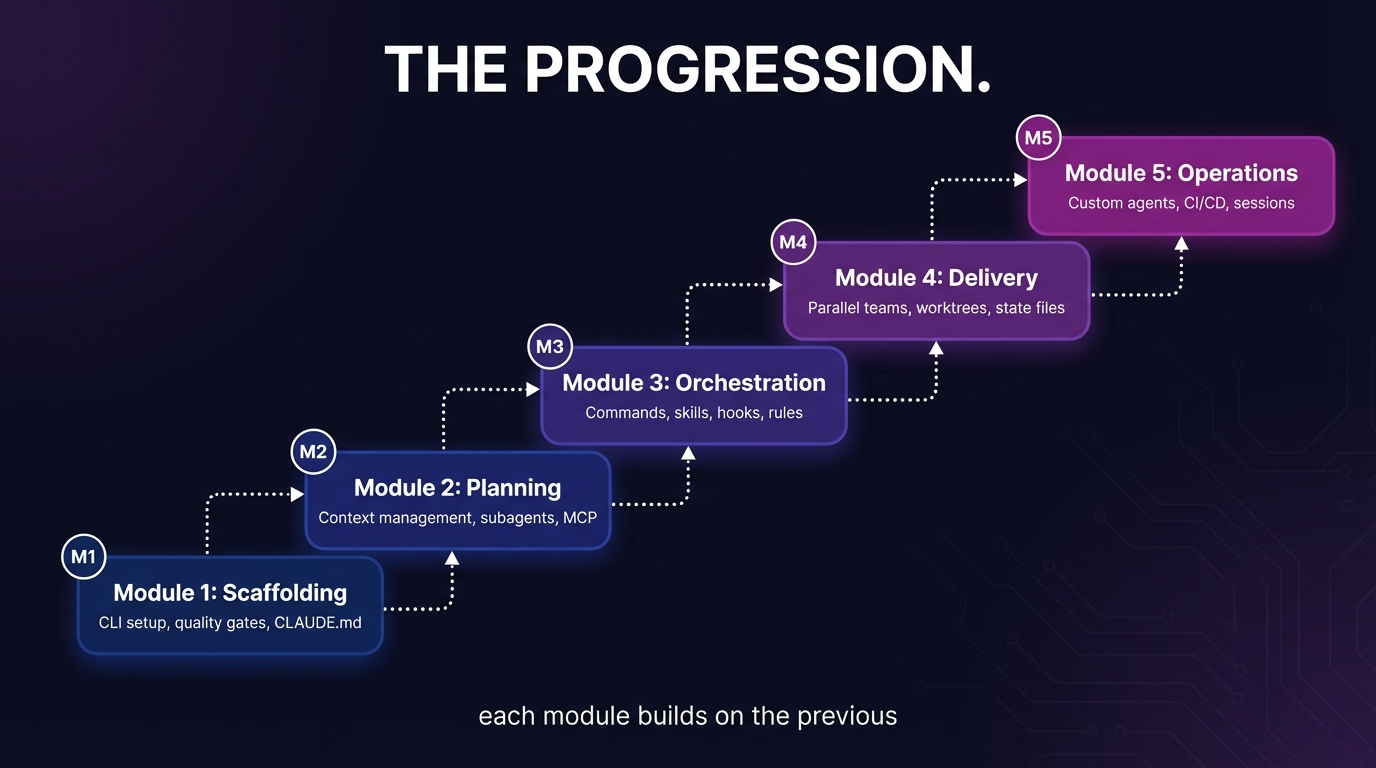
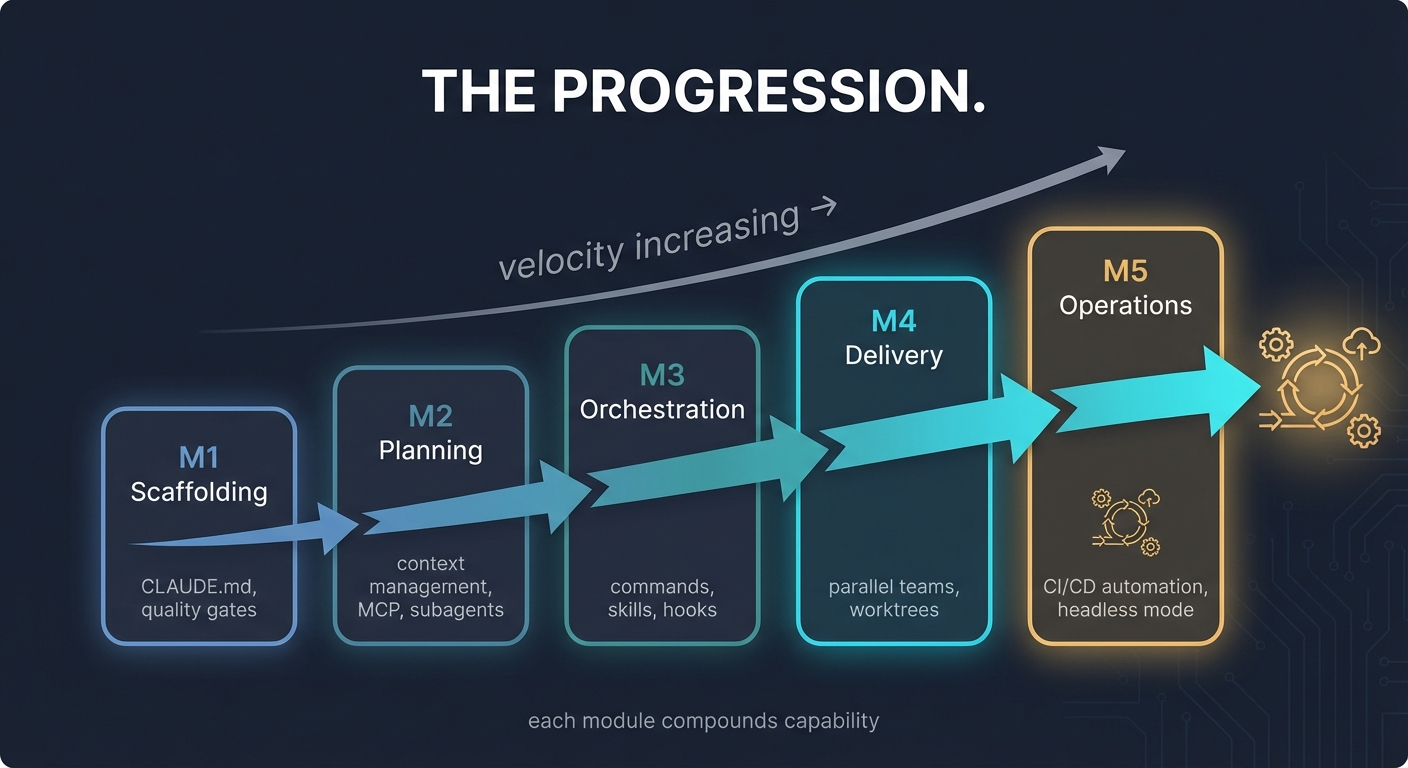
fix(slides): shorten tenets recap, add M5 homework slide, regenerate progression image
- Trim tenets recap bullets to short blurbs (4-6 words each, no module
  references) so slide 28 no longer overflows
- Add slide 29 "Homework: Build a Claude Code Clone" — M5 capstone
  take-home slide following M1-M4 "Let's get to work" pattern
- Regenerate images/progression.png with velocity/acceleration theme
  showing building blocks compounding toward CI/CD pipeline automation
- Fix slide comment numbering (27→26, 28→27, 29→28) and update count to 30

diff --git a/docs/generate_slides.py b/docs/generate_slides.py
@@ -72,7 +72,7 @@ class TwoColumnSlide(SlideData):
     right: list[Bullet] = field(default_factory=list)
 
 
-# All 29 slides in exact order
+# All 30 slides in exact order
 SLIDES: list[SlideData] = [
     # Slide 1: Title slide
     TitleSlide(
@@ -393,7 +393,7 @@ SLIDES: list[SlideData] = [
         image="images/worktree_isolation.png",
         notes="This diagram shows how worktrees isolate parallel work. Each worker agent gets its own worktree — a separate working directory linked to the same git repository. Workers can write, commit, and test without interfering with each other. The leader agent operates in the main worktree and coordinates merges. This is the primary isolation mechanism for team orchestration. It prevents file conflicts, context contamination, and race conditions. Point out the three worktrees (backend, frontend, test) and the main worktree (leader). Transition: Let's discuss managing Claude Code projects long-term.",
     ),
-    # Slide 27: Managing Projects with Claude Code
+    # Slide 26: Managing Projects with Claude Code
     ContentSlide(
         title="Managing Projects with Claude Code",
         bullets=[
@@ -411,43 +411,49 @@ SLIDES: list[SlideData] = [
               "checkpointing are operational hygiene for sustained usage. Participants will use "
               "all of these skills in the M5 capstone project.",
     ),
-    # Slide 28: The Progression (with image)
+    # Slide 27: The Progression (with image)
     ImageSlide(
         title="The Progression",
         image="images/progression.png",
         notes="This slide shows the full five-module progression. M1: CLAUDE.md + pre-commit (foundational quality). M2: Context management + subagents (efficiency). M3: Four-layer context + orchestration (scale). M4: Team workers + worktrees (parallelization). M5 (take-home): Build todd into a Claude Code clone. Each module builds on the last. The principles — progressive disclosure, back pressure, isolation, delegation — compound. By M4, you have a fully operational agentic delivery system. Transition: Let's review how the eight tenets mapped to this progression.",
     ),
-    # Slide 29: Tenets — Full Coverage Recap
+    # Slide 28: Tenets — Recap
     ContentSlide(
         title="Tenets of Quality Output — Recap",
         bullets=[
-            ("1. Verify: ", "M1 manual check → M2 automated test → M3 lint hooks → M4 CI gates", 0),
-            ("2. Be specific: ", "M2 PRD workflow → M3 orchestration PRDs → M4 orchestrator PRDs", 0),
-            ("3. CLAUDE.md + hooks: ", "M1 CLAUDE.md + pre-commit → M3 PostToolUse → M3 anti-patterns + audit checklist", 0),
-            ("4. Context is finite: ", "M2 /context viz + subagent isolation → M3 progressive disclosure", 0),
-            ("5. Explore → Plan → Code: ", "M2 plan mode → M3 plan-before-build → M4 phase sequences", 0),
-            ("6. Progressive disclosure: ", "M3 four-layer system → M3 skills auto-load → M4 state files", 0),
-            ("7. Agent design: ", "M3 custom agents → M4 team workers → M4 orchestrators", 0),
-            ("8. Scale with isolation: ", "M4 worktrees + teams → M4 headless mode + CI patterns", 0),
+            ("1. Verify your work: ", "tests and expected outputs", 0),
+            ("2. Be specific: ", "reference files, constraints, patterns", 0),
+            ("3. CLAUDE.md + hooks: ", "persistent memory + automated gates", 0),
+            ("4. Context is finite: ", "performance degrades as it fills", 0),
+            ("5. Explore → Plan → Code: ", "read before writing", 0),
+            ("6. Progressive disclosure: ", "right context, right scope, right time", 0),
+            ("7. Agent design: ", "composable workers with clear scope", 0),
+            ("8. Scale with isolation: ", "worktrees, teams, sandboxing", 0),
         ],
         notes=(
             "This is the payoff slide. Walk through each tenet and ask participants to recall "
             "the specific exercises. Every tenet from slides 6-7 now has hands-on coverage.\n\n"
-            "FOUNDATIONAL (1-3): Verification progressed from manual spot-check (M1) through "
-            "automated test (M2) to automated hooks (M3) to CI gates (M4). "
-            "Specificity was demonstrated every time a PRD drove the work. "
-            "CLAUDE.md + hooks threaded from M1 through M4 — the longest-running tenet. "
-            "M3 anti-patterns and audit checklist are where maintenance is covered.\n\n"
-            "INTERMEDIATE (4-6): Context management was the M2 headline. "
-            "Plan mode enforced the explore-plan-code discipline. "
-            "Progressive disclosure was built as a four-layer system in M3.\n\n"
-            "ADVANCED (7-8): Agent design started with custom agents in M3, "
-            "scaled to team workers in M4, and built orchestrators in M4. "
-            "Isolation layered up: worktrees (M4) + subagents (M2) + hooks (M3) + headless mode (M4).\n\n"
+            "Tenets 1-4 (Foundations): verification, specificity, CLAUDE.md + hooks, context management.\n\n"
+            "Tenets 5-8 (At Scale): plan mode discipline, progressive disclosure, agent design, isolation.\n\n"
             "Sources: code.claude.com/docs/en/best-practices, "
             "simonwillison.net (agentic engineering), "
             "github.com/anthropics/prompt-eng-interactive-tutorial"
         ),
+    ),
+    # Slide 29: Module 5 Homework
+    ContentSlide(
+        title="Homework: Build a Claude Code Clone",
+        bullets=[
+            "Module 5 is a self-paced capstone project",
+            "Open `modules/module5.md` for 5 milestone PRDs",
+            "Use your ADW tools — `/feature` and `/team:feature` work here",
+        ],
+        notes="Module 5 is take-home. Participants extend todd from a single-shot "
+              "prompt forwarder into an interactive agentic tool — a miniature Claude "
+              "Code clone. Five milestones: REPL, Tool Use, Streaming, CLAUDE.md "
+              "Loading, Session Persistence. Each has a PRD in docs/prds/. Estimated "
+              "2-4 hours across multiple sessions. Use `claude --resume` to pick up "
+              "where you left off.",
     ),
     # Slide 30: Closing
     SectionSlide(
